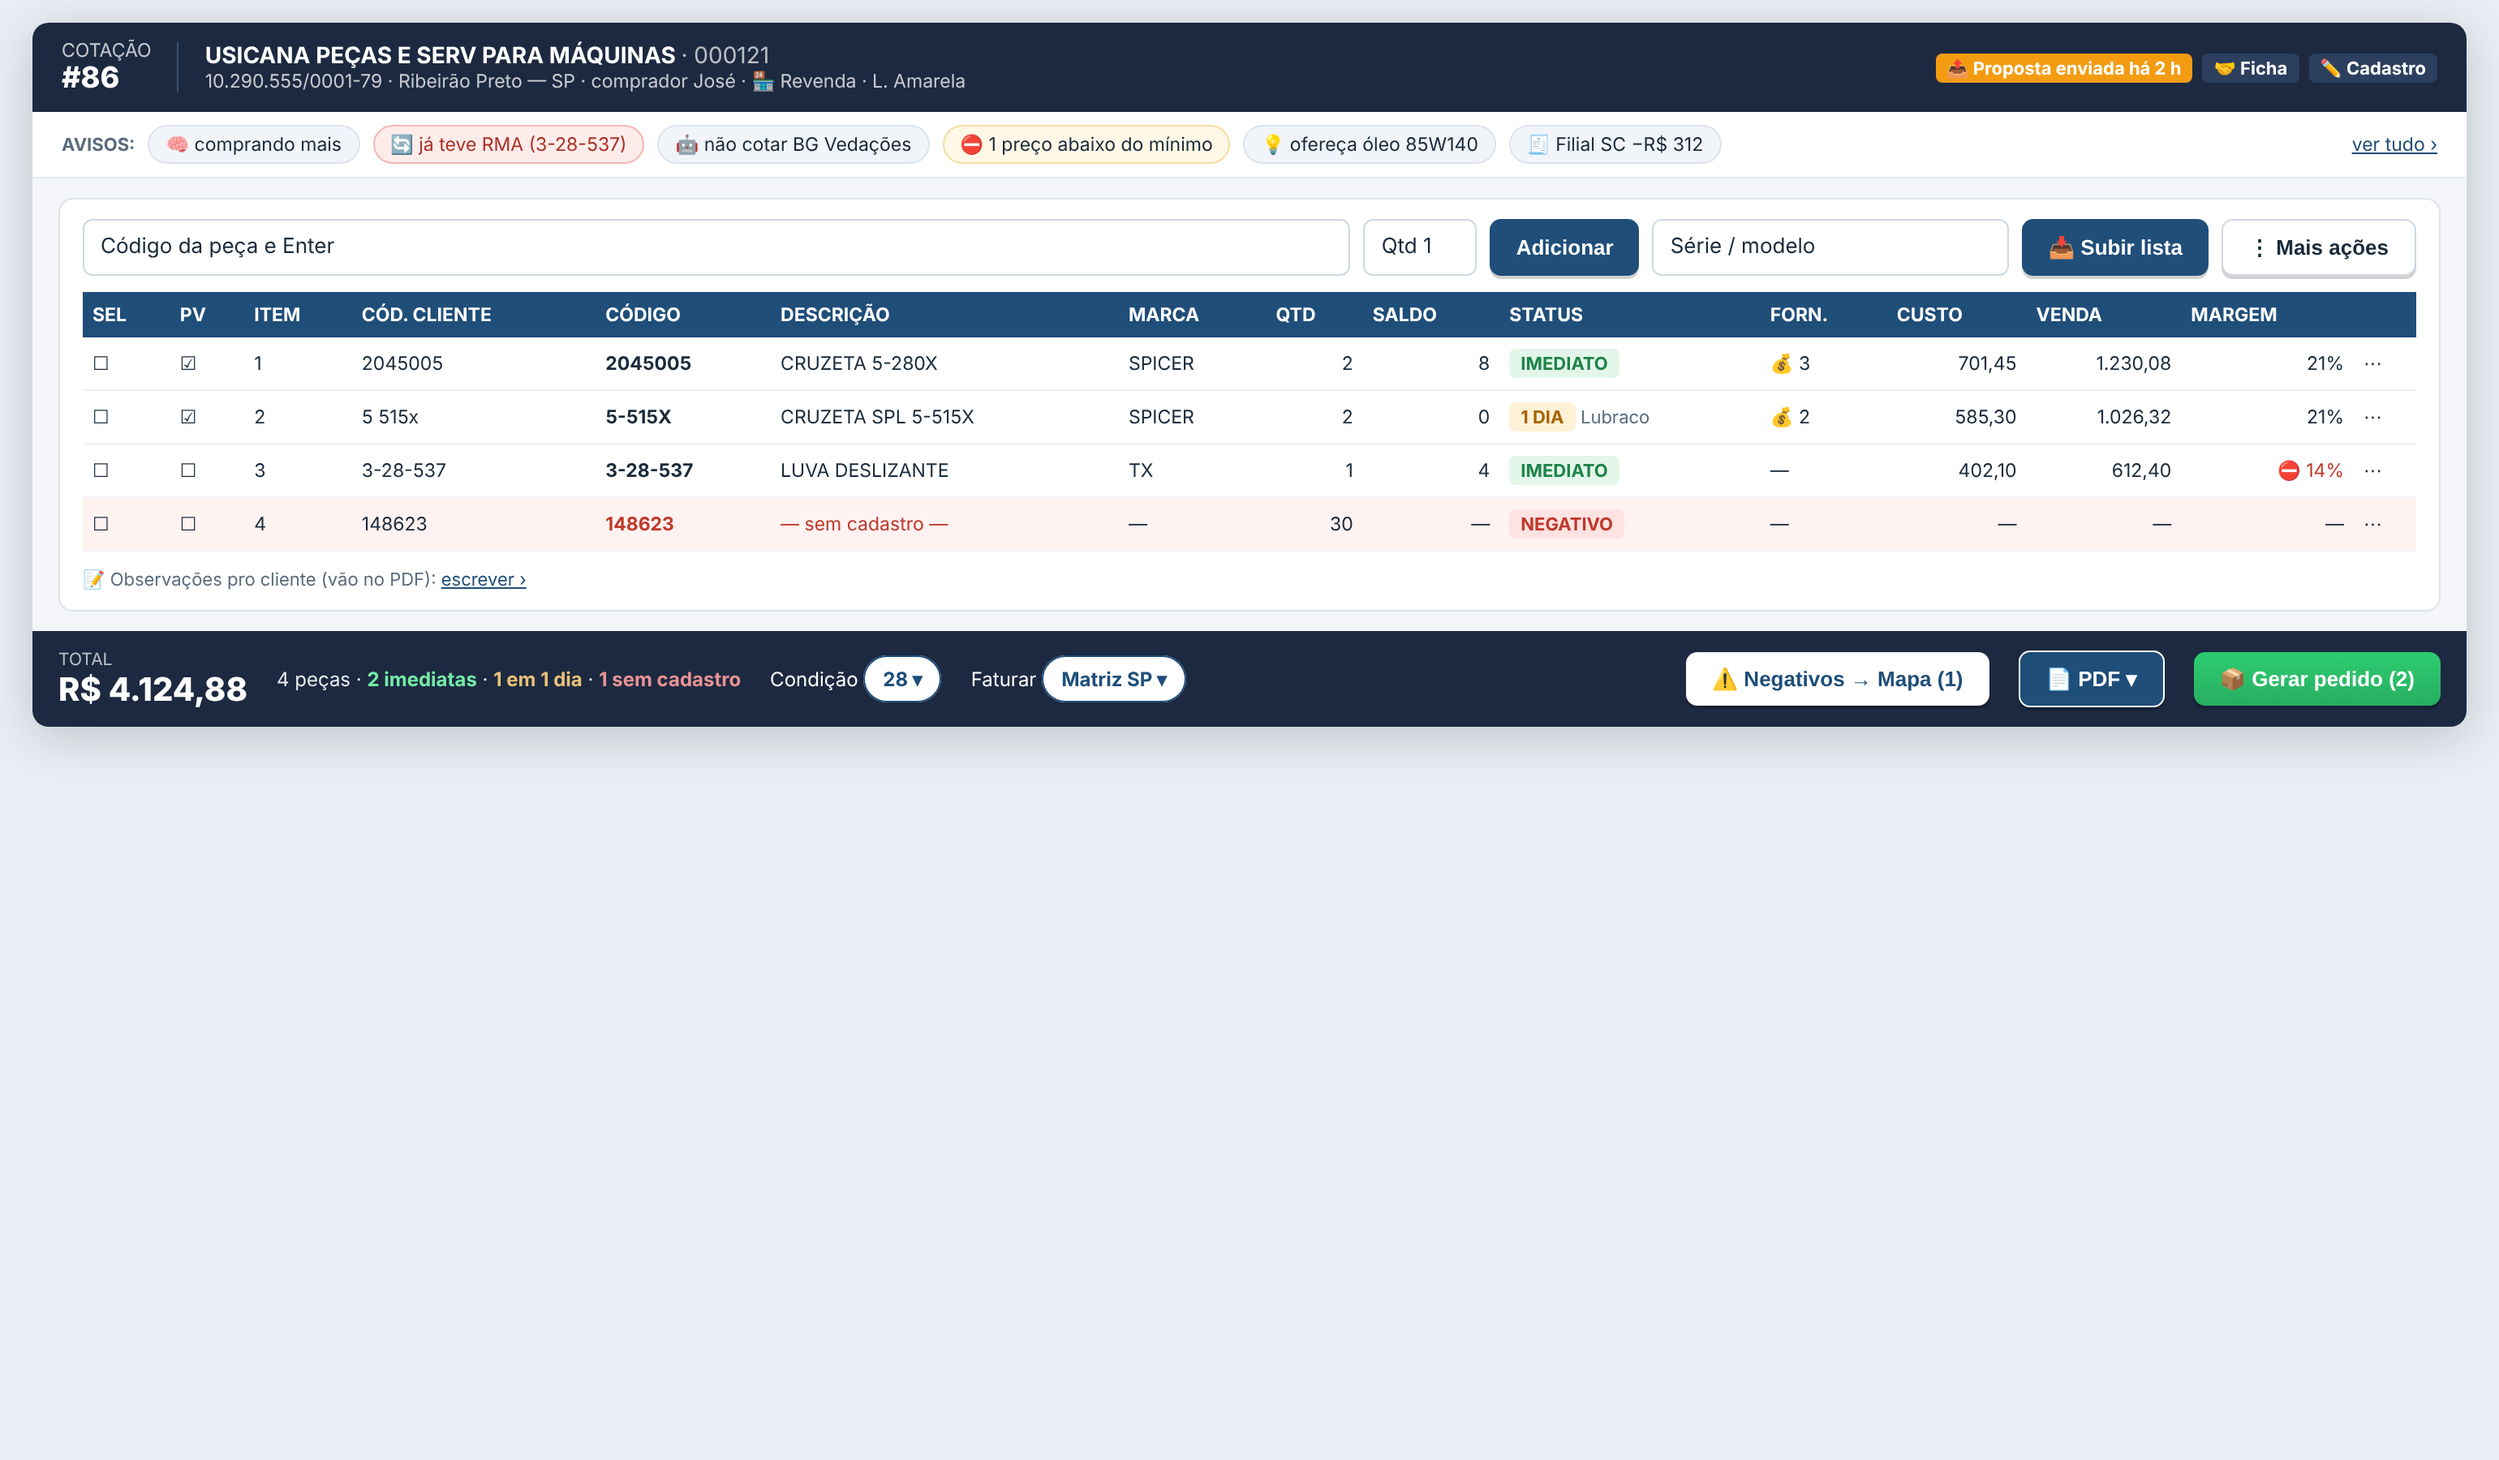
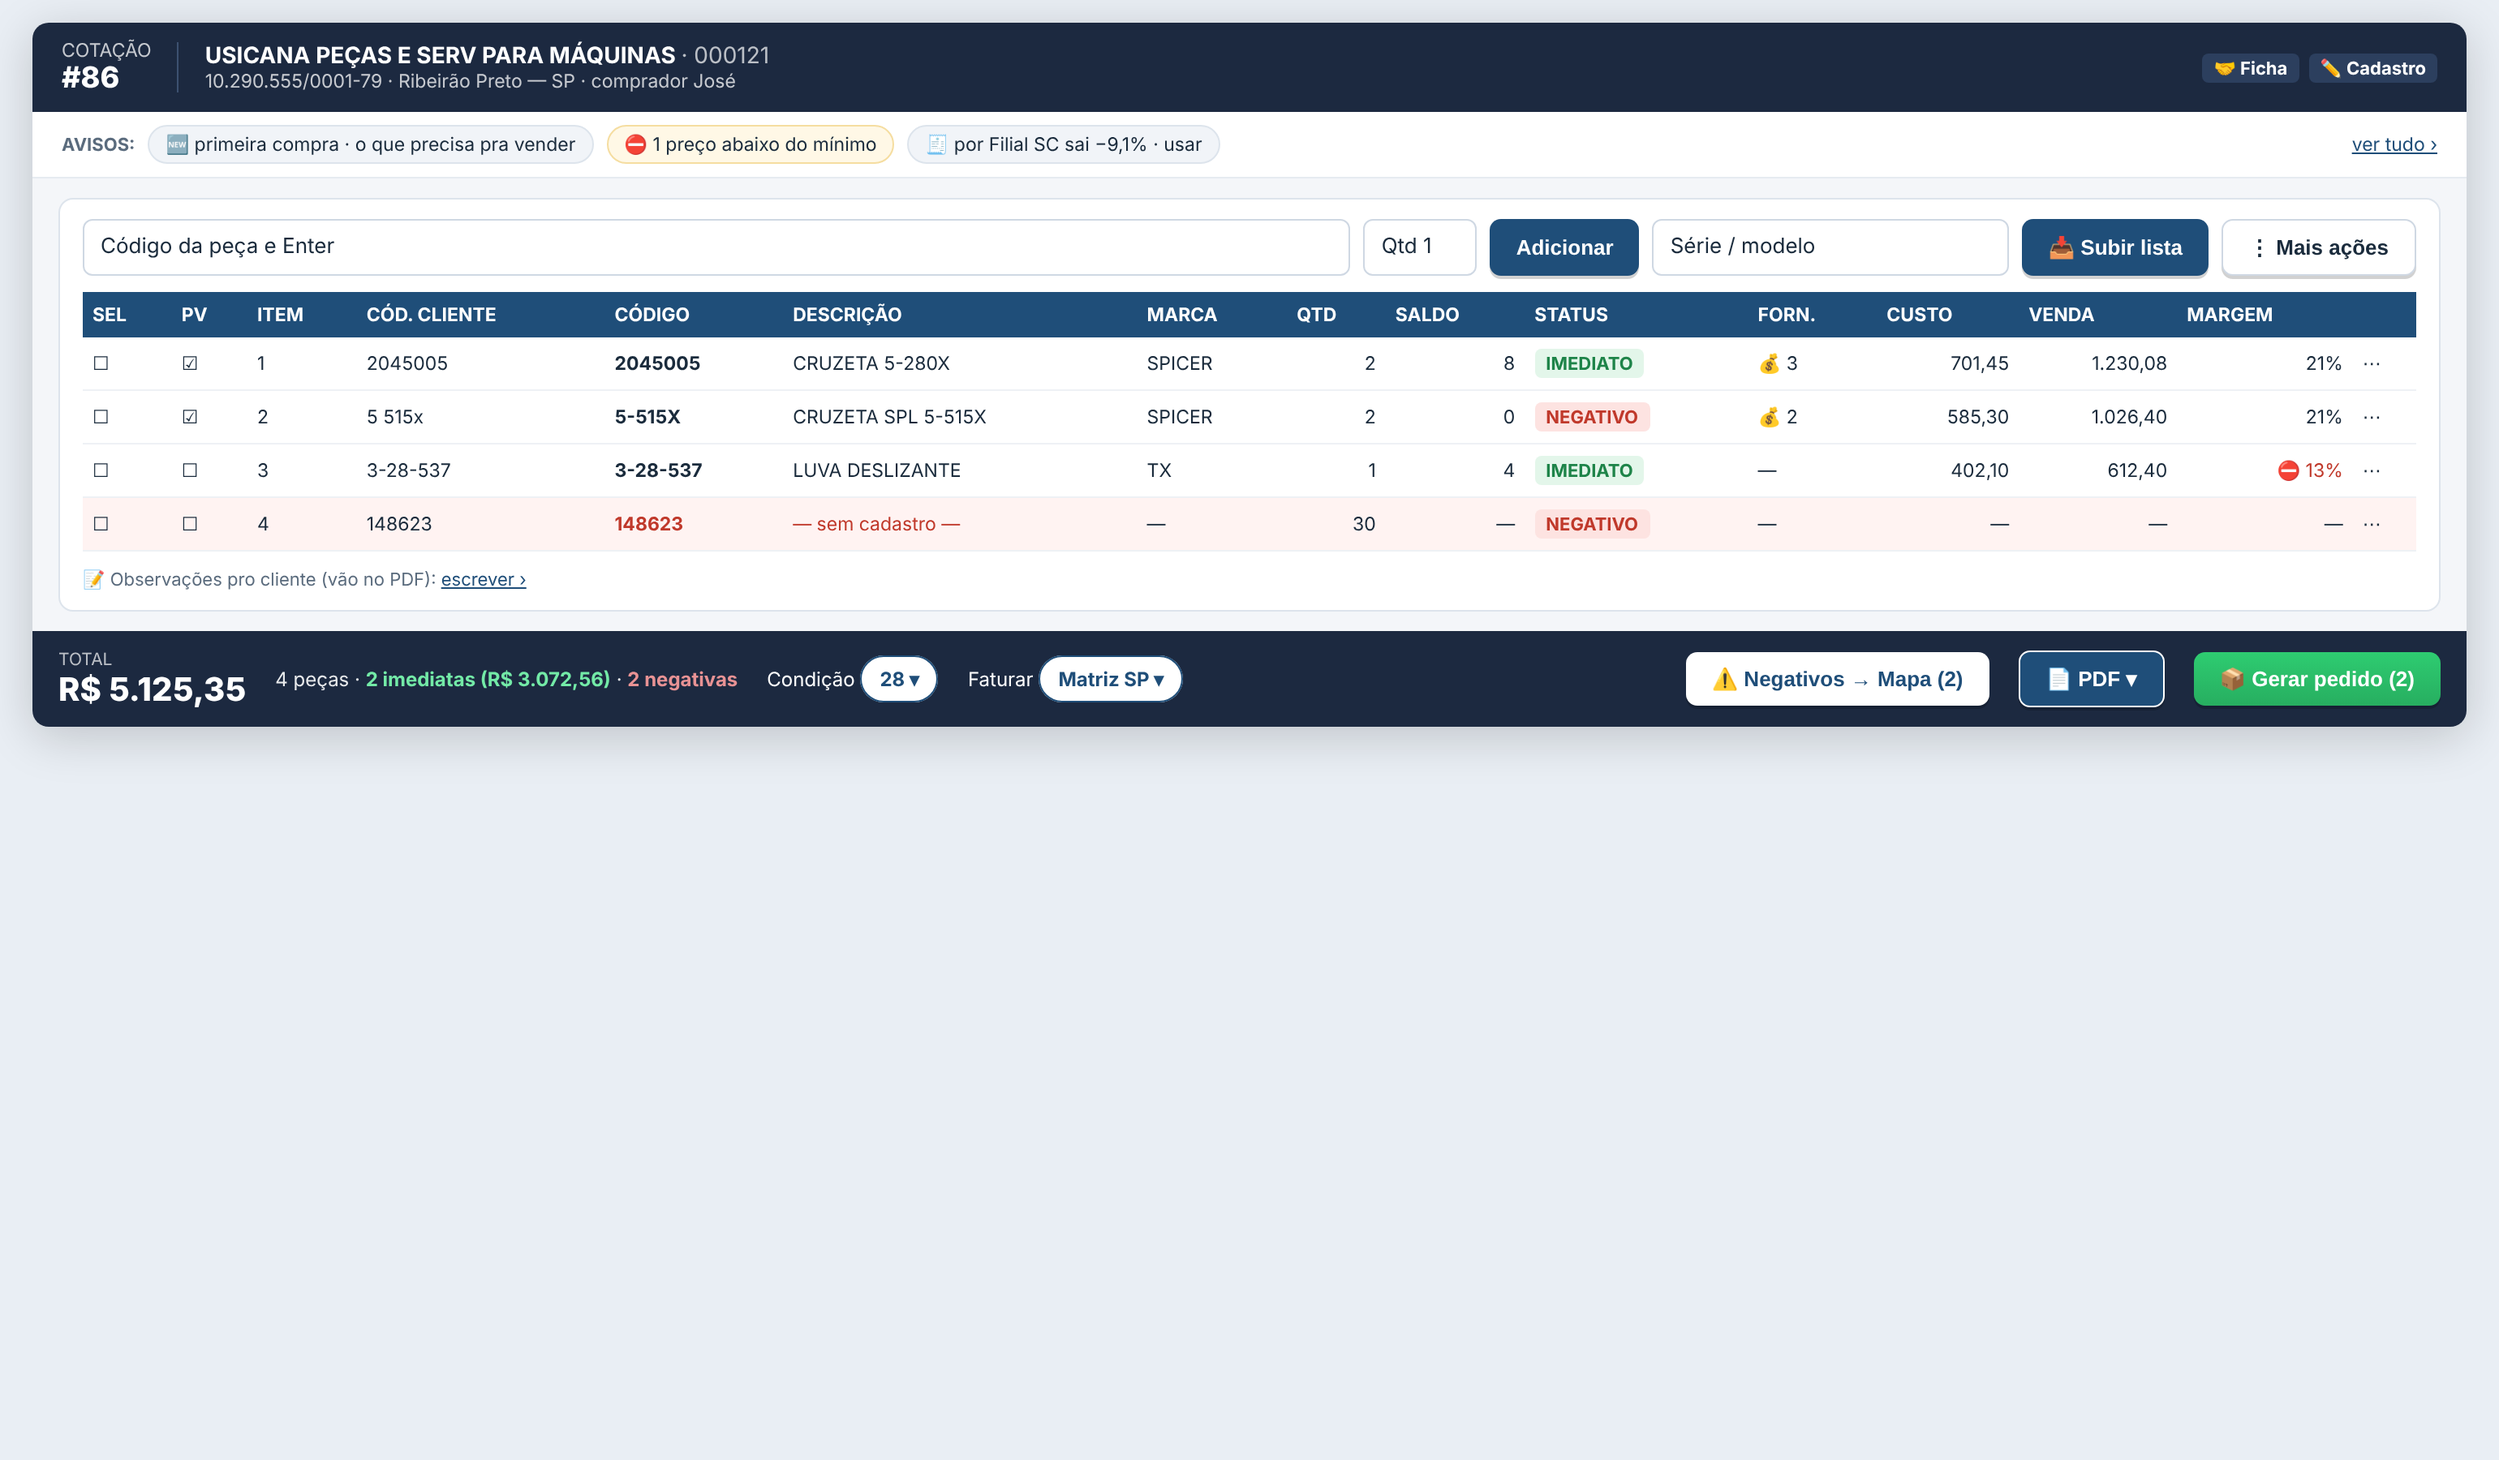
Comparativo cotação hoje × prévia B
Claude-Session: https://claude.ai/code/session_01DBvpiNJJMkjQPwuYjA6VUV

diff --git a/docs/referencias/cotacao-organizar/previa-B.html b/docs/referencias/cotacao-organizar/previa-B.html
@@ -4,32 +4,32 @@
  <div class="top" style="padding:10px 18px">
   <div><div class="sub">COTAÇÃO</div><div class="n" style="font-size:18px">#86</div></div>
   <div style="border-left:1px solid #3d5170;padding-left:16px"><div class="cli">USICANA PEÇAS E SERV PARA MÁQUINAS <span style="font-weight:400;opacity:.7">· 000121</span></div>
-   <div class="sub">10.290.555/0001-79 · Ribeirão Preto — SP · comprador José · 🏪 Revenda · L. Amarela</div></div>
-  <div style="display:flex;gap:6px;margin-left:auto;align-items:center"><span class="tag" style="background:#F39C12;color:#fff">📤 Proposta enviada há 2 h</span><span class="tag" style="background:#2c3f5e;color:#fff">🤝 Ficha</span><span class="tag" style="background:#2c3f5e;color:#fff">✏ Cadastro</span></div>
+   <div class="sub">10.290.555/0001-79 · Ribeirão Preto — SP · comprador José</div></div>
+  <div style="display:flex;gap:6px;margin-left:auto;align-items:center"><span class="tag" style="background:#2c3f5e;color:#fff">🤝 Ficha</span><span class="tag" style="background:#2c3f5e;color:#fff">✏ Cadastro</span></div>
  </div>
  <div style="background:#fff;border-bottom:1px solid #e6ebf1;padding:8px 18px;display:flex;gap:8px;flex-wrap:wrap;align-items:center">
   <span style="font-size:11px;font-weight:700;color:#5a6b7d">AVISOS:</span>
-  <span class="pill">🧠 comprando mais</span><span class="pill" style="background:#FDECEA;border-color:#F5B7B1;color:#A93226">🔄 já teve RMA (3-28-537)</span><span class="pill">🤖 não cotar BG Vedações</span>
-  <span class="pill" style="background:#FFF8E6;border-color:#F5DDA0">⛔ 1 preço abaixo do mínimo</span><span class="pill">💡 ofereça óleo 85W140</span><span class="pill">🧾 Filial SC −R$ 312</span>
+  <span class="pill">🆕 primeira compra · o que precisa pra vender</span>
+  <span class="pill" style="background:#FFF8E6;border-color:#F5DDA0">⛔ 1 preço abaixo do mínimo</span><span class="pill">🧾 por Filial SC sai −9,1% · usar</span>
   <span style="margin-left:auto;font-size:11.5px;text-decoration:underline;color:#1F4E79">ver tudo ›</span>
  </div>
  <div class="card"><div class="bd">
   <div style="display:flex;gap:8px;margin-bottom:10px"><div class="in" style="flex:1">Código da peça e Enter</div><div class="in" style="width:70px">Qtd 1</div><button class="btn azul">Adicionar</button><div class="in" style="width:220px">Série / modelo</div><button class="btn azul">📥 Subir lista</button><button class="btn claro">⋮ Mais ações</button></div>
   <table><tr><th>SEL</th><th>PV</th><th>ITEM</th><th>CÓD. CLIENTE</th><th>CÓDIGO</th><th>DESCRIÇÃO</th><th>MARCA</th><th class="n">QTD</th><th class="n">SALDO</th><th>STATUS</th><th>FORN.</th><th class="n">CUSTO</th><th class="n">VENDA</th><th class="n">MARGEM</th><th></th></tr>
    <tr><td>☐</td><td>☑</td><td>1</td><td>2045005</td><td><b>2045005</b></td><td>CRUZETA 5-280X</td><td>SPICER</td><td class="n">2</td><td class="n">8</td><td><span class="tag tg-ok">IMEDIATO</span></td><td>💰 3</td><td class="n">701,45</td><td class="n">1.230,08</td><td class="n">21%</td><td>⋯</td></tr>
-   <tr><td>☐</td><td>☑</td><td>2</td><td>5 515x</td><td><b>5-515X</b></td><td>CRUZETA SPL 5-515X</td><td>SPICER</td><td class="n">2</td><td class="n">0</td><td><span class="tag tg-am">1 DIA</span> <span class="mini2">Lubraco</span></td><td>💰 2</td><td class="n">585,30</td><td class="n">1.026,32</td><td class="n">21%</td><td>⋯</td></tr>
-   <tr><td>☐</td><td>☐</td><td>3</td><td>3-28-537</td><td><b>3-28-537</b></td><td>LUVA DESLIZANTE</td><td>TX</td><td class="n">1</td><td class="n">4</td><td><span class="tag tg-ok">IMEDIATO</span></td><td>—</td><td class="n">402,10</td><td class="n">612,40</td><td class="n" style="color:#c0392b">⛔ 14%</td><td>⋯</td></tr>
+   <tr><td>☐</td><td>☑</td><td>2</td><td>5 515x</td><td><b>5-515X</b></td><td>CRUZETA SPL 5-515X</td><td>SPICER</td><td class="n">2</td><td class="n">0</td><td><span class="tag tg-neg">NEGATIVO</span></td><td>💰 2</td><td class="n">585,30</td><td class="n">1.026,40</td><td class="n">21%</td><td>⋯</td></tr>
+   <tr><td>☐</td><td>☐</td><td>3</td><td>3-28-537</td><td><b>3-28-537</b></td><td>LUVA DESLIZANTE</td><td>TX</td><td class="n">1</td><td class="n">4</td><td><span class="tag tg-ok">IMEDIATO</span></td><td>—</td><td class="n">402,10</td><td class="n">612,40</td><td class="n" style="color:#c0392b">⛔ 13%</td><td>⋯</td></tr>
    <tr class="al"><td>☐</td><td>☐</td><td>4</td><td>148623</td><td><b style="color:#c0392b">148623</b></td><td style="color:#c0392b">— sem cadastro —</td><td>—</td><td class="n">30</td><td class="n">—</td><td><span class="tag tg-neg">NEGATIVO</span></td><td>—</td><td class="n">—</td><td class="n">—</td><td class="n">—</td><td>⋯</td></tr>
   </table>
   <div class="mini2" style="margin-top:10px">📝 Observações pro cliente (vão no PDF): <span style="color:#1F4E79;text-decoration:underline">escrever ›</span></div>
  </div></div>
  <div class="ft" style="gap:18px;background:#1c2940;color:#fff;border:none">
-  <div><div style="font-size:10.5px;opacity:.7">TOTAL</div><div style="font-size:20px;font-weight:800">R$ 4.124,88</div></div>
-  <div style="font-size:12px;opacity:.9">4 peças · <b style="color:#7DFFB3">2 imediatas</b> · <b style="color:#FFD27D">1 em 1 dia</b> · <b style="color:#FF9E9E">1 sem cadastro</b></div>
+  <div><div style="font-size:10.5px;opacity:.7">TOTAL</div><div style="font-size:20px;font-weight:800">R$ 5.125,35</div></div>
+  <div style="font-size:12px;opacity:.9">4 peças · <b style="color:#7DFFB3">2 imediatas (R$ 3.072,56)</b> · <b style="color:#FF9E9E">2 negativas</b></div>
   <div style="font-size:12px">Condição <span class="chip on" style="background:#fff;color:#1F4E79">28 ▾</span></div>
   <div style="font-size:12px">Faturar <span class="chip on" style="background:#fff;color:#1F4E79">Matriz SP ▾</span></div>
   <span style="margin-left:auto"></span>
-  <button class="btn" style="background:#fff;color:#1F4E79">⚠ Negativos → Mapa (1)</button>
+  <button class="btn" style="background:#fff;color:#1F4E79">⚠ Negativos → Mapa (2)</button>
   <button class="btn azul" style="border:1px solid #fff">📄 PDF ▾</button>
   <button class="btn verde">📦 Gerar pedido (2)</button>
  </div>

diff --git a/docs/referencias/cotacao-organizar/comparativo.html b/docs/referencias/cotacao-organizar/comparativo.html
@@ -1,0 +1,25 @@
+<!doctype html><html><head><meta charset="utf-8"><title>Comparativo</title><style>
+body{margin:0;background:#e9eef4;font-family:-apple-system,Segoe UI,Roboto,Arial,sans-serif;color:#1A2B3C}
+.wrap{display:grid;grid-template-columns:1fr 1fr;gap:22px;padding:22px;align-items:start}
+.col h2{margin:0 0 10px;font-size:22px;display:flex;gap:10px;align-items:center}
+.tag{font-size:13px;padding:4px 10px;border-radius:6px;color:#fff}
+img{width:100%;border-radius:10px;box-shadow:0 4px 18px rgba(0,0,0,.15);display:block}
+.lista{grid-column:1/3;background:#fff;border-radius:10px;padding:16px 22px;box-shadow:0 2px 8px rgba(0,0,0,.06)}
+.lista h3{margin:0 0 10px;font-size:17px}
+table{width:100%;border-collapse:collapse;font-size:14px}th{background:#1F4E79;color:#fff;text-align:left;padding:8px 10px}td{padding:8px 10px;border-bottom:1px solid #eef1f5;vertical-align:top}
+td:first-child{font-weight:700;width:190px}.n{color:#8a99a8}
+</style></head><body><div class="wrap">
+<div class="col"><h2><span class="tag" style="background:#8a99a8">HOJE</span> como está no PF agora</h2><img src="hoje.png"></div>
+<div class="col"><h2><span class="tag" style="background:#27AE60">B</span> como ficaria</h2><img src="previa-B.png"></div>
+<div class="lista"><h3>O que muda (mesma cotação #86, mesmas 4 peças)</h3><table>
+<tr><th>Parte</th><th>Hoje</th><th>Na B</th></tr>
+<tr><td>Barra azul de cima</td><td>Assistente, PDF, ?, Tour, Atalhos, Regras, Regras desta cotação</td><td>Fica igual (só PDF desce pra barra de baixo também)</td></tr>
+<tr><td>Cliente</td><td>Cabeçalho alto com 6 campos + 4 botões em 2 linhas</td><td>1 linha escura: nome, código, CNPJ, cidade, comprador + Ficha / Cadastro</td></tr>
+<tr><td>Avisos</td><td>3 caixas separadas: aviso do cliente, Faturar por, Preço fora da regra</td><td>1 faixa de etiquetas ("ver tudo" abre o detalhe)</td></tr>
+<tr><td>Botões dos itens</td><td>2 linhas de botões (Tabela/2 linhas, Informações, Linha, Trazer, Marcar aplicação, Pedido do cliente…)</td><td>1 linha: código, série/modelo, Subir lista e "⋮ Mais ações" com o resto</td></tr>
+<tr><td>Total</td><td>Lá embaixo, e só das peças com saldo (R$ 3.072,56)</td><td>Barra presa embaixo, sempre à vista: total de tudo + quanto é imediato</td></tr>
+<tr><td>Condição / faturar por</td><td>Condição sumiu do cabeçalho; Faturar por numa faixa no meio</td><td>Os dois na barra de baixo</td></tr>
+<tr><td>Gerar pedido</td><td>Só aparece quando marca PV, perdido entre os botões de baixo</td><td>Botão verde fixo na barra de baixo, com quantos estão marcados</td></tr>
+<tr><td>Observações e info do PDF</td><td>Caixa grande + lista de itens "A CONSULTAR" no fim da tela</td><td>Link curto "Observações pro cliente" (abre quando precisa)</td></tr>
+<tr><td>Tabela</td><td>Igual</td><td>Igual — ganha um pouco mais de altura na tela</td></tr>
+</table></div></div></body></html>
